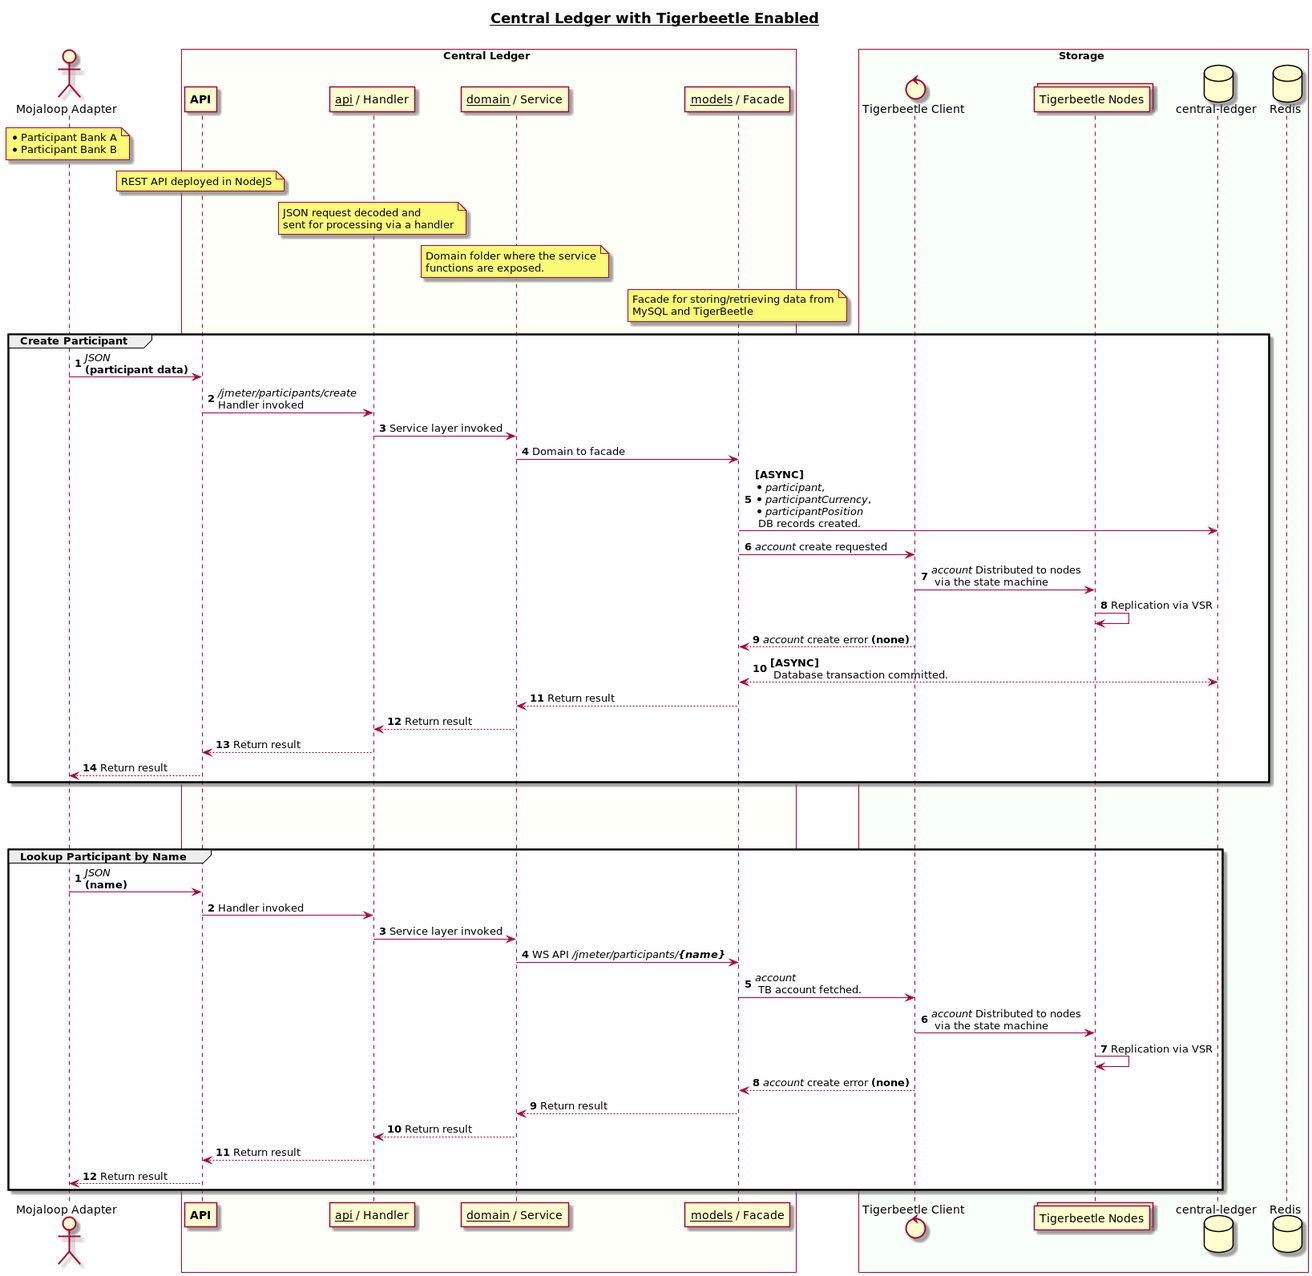
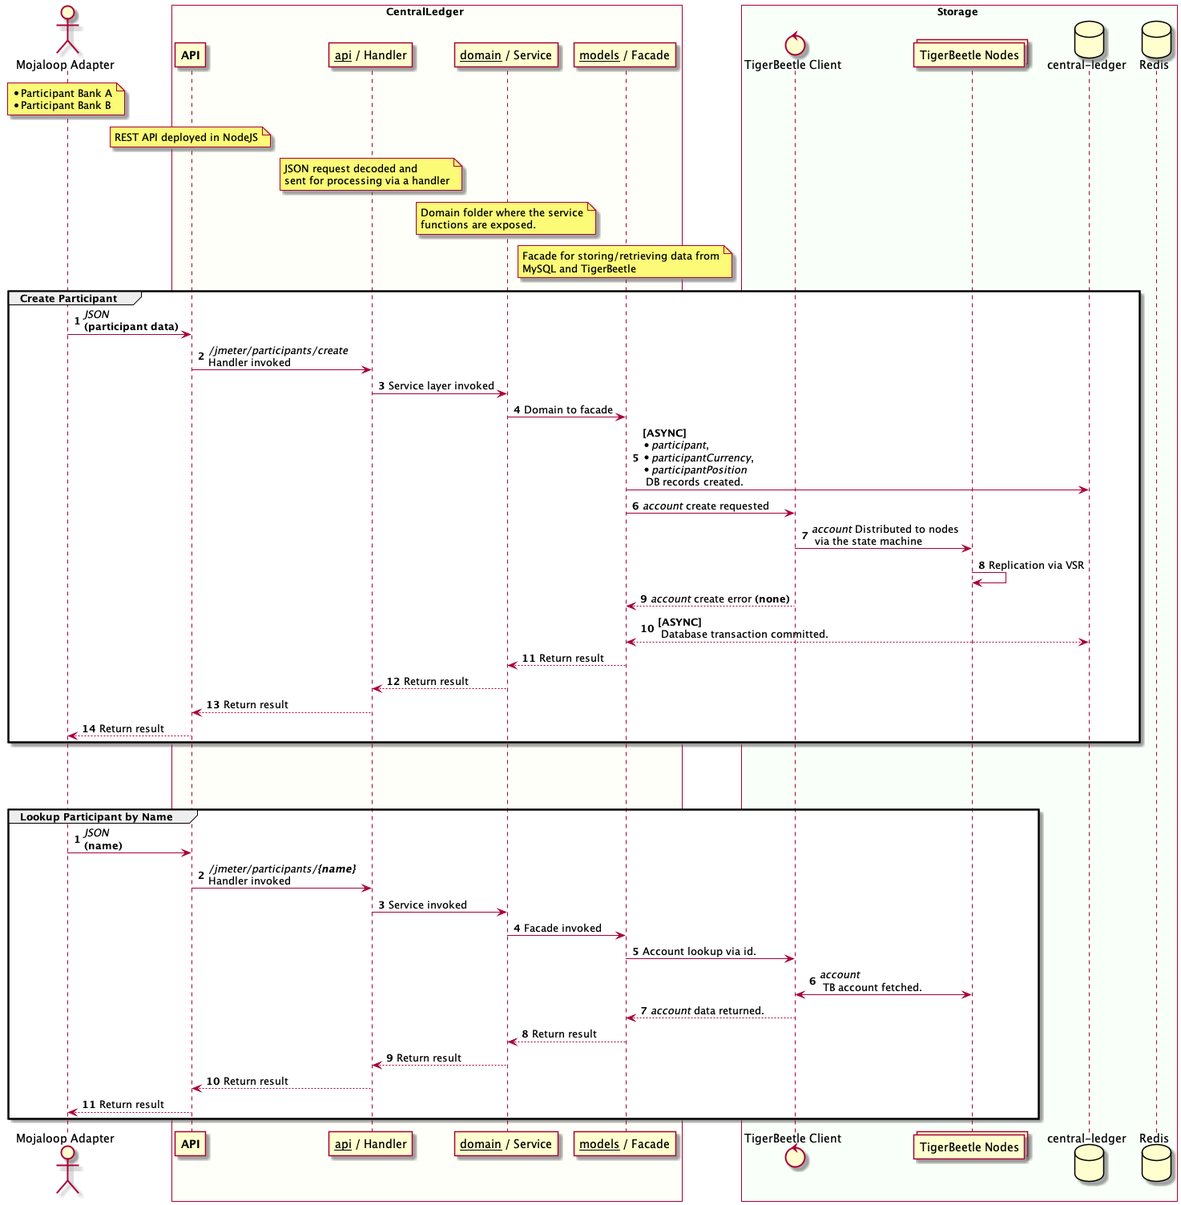
Updated design.

diff --git a/SOLUTION_DESIGN.md b/SOLUTION_DESIGN.md
@@ -31,13 +31,17 @@
 | Endpoint    | An API is a set of protocols and tools to facilitate interaction between two applications. An endpoint is a place on the API where the exchange happens. Endpoints are URIs (Uniform Resource Indices) on an API that an application can access. All APIs have endpoints. |
 | JSON        | JSON (JavaScript Object Notation) is a lightweight data-interchange format.                                                                                                                                                                                               |
 | REST        | Representational state transfer (REST) is a software architectural style that was created to guide the design and development of the architecture for the World Wide Web.                                                                                                 |
+| VPN Tunnel  | A VPN tunnel is an encrypted link between your computer or mobile device and an outside network. A VPN tunnel — short for virtual private network tunnel — can provide a way to cloak some of your online activity.                                                       |
+| TLS/SSL     | Transport Layer Security (TLS) certificates—most commonly known as SSL, or digital certificates—are the foundation of a safe and secure internet. TLS/SSL certificates secure internet connections by encrypting data sent between systems.                               |
+| HTTPS       | Stands for "HyperText Transport Protocol Secure." HTTPS is the same thing as HTTP, but uses a secure socket layer (SSL) for security purposes.                                                                                                                            |
+| WAF         | A WAF or web application firewall helps protect web applications by filtering and monitoring HTTP traffic between a web application and the Internet (_or internal network_).                                                                                             |
 
 
 ## 1. Purpose
 This document describes the solution architecture and system design for using a TigerBeetle database as part of a Mojaloop payments system.
 
 Different sections of this document can be used by an audience that is focussed on:
-* the requirements and business drivers of the the solution and
+* the requirements and business drivers of the solution and
 * the technical aspects and components of the design.
 
 ## 2. Background
@@ -46,82 +50,101 @@ A solution that uses TigerBeetle differs from the original design. The key reaso
 
 ## 3. Solution Design
 ### 3.1. Overview of Mojaloop Architecture
-//TODO @jason We need a diagram with a full view of all
+> TODO @jason We need a diagram with a full view of all
+
 ![System Context Diagram](solution_design/arch-mojaloop.svg)
 
 ### 3.2. System Context Diagram Central Ledger As Is
-//TODO @jason Add the central-settlement as part of the design diagrams...
+> @jason Add the central-settlement as part of the design diagrams...
+
 ![System Context Diagram As](solution_design/central-ledger-system-context.svg)
 
 ### 3.3. System Context Diagram Central Ledger with TigerBeetle
 ![System Context Diagram](solution_design/central-ledger-system-context.svg)
 
 ### 3.4. Functional Requirements
-#### New functionality
-
+#### New Functionality
 * TigerBeetle NodeJS integrated into Central-Ledger
   * Make use of existing configuration `default.json` configuration file for client
   * TigerBeetle NodeJS client to be integrated into central-ledger
   * TigerBeetle enablement through on/off switch
   * TigerBeetle and central-ledger facade (Translate from CL Acc+Transfer to TB Acc+Transfer)
-  * 
 * jMeter endpoints added for full 
 * Timeout function to be reliant on TB instead of timer
 * Transfer duplicate check performed as part of TB built in functionality
-* jMeter testing suite to test:
+* jMeter testing suite to test the following functionality:
   * Transfer
-  * 2-phase Transfer
-  * Account creation (includes Participant)
+  * 2-Phase Transfer
+  * Account & Participant Creation
   * Account Lookups
   * Transfer Lookups
-* 
 
-#### Impact on user experience
-#### System behaviour in different scenarios
+#### Impact On User Experience
+#### System Behaviour In different scenarios
 #### Impact on customer support or operations
 
 ### 3.5. Non-functional Requirements
-#### Performance
-* High increased performance
-* Increased deterministic behaviour
-* Environment stack testing
-* Update docker-compose and Docker files to include freestanding TB environment
+#### Performance In TigerBeetle
+Making use of TigerBeetle in CentralLedger would mean a significant increase in performance and throughput.
+TigerBeetle provides more performance than a general-purpose relational database such as MySQL or an in-memory database such as Redis:
 
-#### Availability
+* TigerBeetle **uses small, simple fixed-size data structures** (accounts and transfers) and a tightly scoped domain.
+* TigerBeetle **performs all balance tracking logic in the database**. This is a paradigm shift where we move the code once to the data, not the data back and forth to the code in the critical path. This eliminates the need for complex caching logic outside the database. The “Accounting” business logic is built in to TigerBeetle so that you can **keep your application layer simple, and completely stateless**.
+* TigerBeetle **supports batching by design**. You can batch all the transfer prepares or commits that you receive in a fixed 10ms window (or in a dynamic 1ms through 10ms window according to load) and then send them all in a single network request to the database. This enables low-overhead networking, large sequential disk write patterns and amortized fsync and consensus across hundreds and thousands of transfers.
+> Everything is a batch. It's your choice whether a batch contains 100 transfers or 10,000 transfers but our measurements show that **latency is _less_ where batch sizes are larger, thanks to Little's Law** (e.g. 50ms for a batch of a hundred transfers vs 20ms for a batch of ten thousand transfers). TigerBeetle is able to amortize the cost of I/O to achieve lower latency, even for fairly large batch sizes, by eliminating the cost of queueing delay incurred by small batches.
 
-#### Security
-The following security points need to be noted:
+* If your system is not under load, TigerBeetle also **optimizes the latency of small batches**. After copying from the kernel's TCP receive buffer (TigerBeetle does not do user-space TCP), TigerBeetle **does zero-copy Direct I/O** from network protocol to disk, and then to state machine and back, to reduce memory pressure and L1-L3 cache pollution.
+* TigerBeetle **uses io_uring for zero-syscall networking and storage I/O**. The cost of a syscall in terms of context switches adds up quickly for a few thousand transfers.
+* TigerBeetle **does zero-deserialization** by using fixed-size data structures, that are optimized for cache line alignment to **minimize L1-L3 cache misses**.
+* TigerBeetle **takes advantage of Heidi Howard's Flexible Quorums** to reduce the cost of **synchronous replication to one (or two) remote replicas at most** (in addition to the leader) with **asynchronous replication** between the remaining followers. This improves write availability, without sacrificing strict serializability or durability. This also reduces server deployment cost by as much as 20% because a 4-node cluster with Flexible Quorums can now provide the same `f=2` guarantee for the replication quorum as a 5-node cluster.
+> ["The major availability breakdowns and performance anomalies we see in cloud environments tend to be caused by subtle underlying faults, i.e. gray failure (slowly failing hardware) rather than fail-stop failure."](https://www.microsoft.com/en-us/research/wp-content/uploads/2017/06/paper-1.pdf)
+* TigerBeetle **routes around transient gray failure latency spikes**. 
+  * For example, if a disk write that typically takes 4ms starts taking 4 seconds because the disk is slowly failing, TigerBeetle will use cluster redundancy to mask the gray failure automatically without the user seeing any 4 second latency spike. This is a relatively new performance technique in the literature known as "tail tolerance".
 
-##### Transport
-* HTTPS on central-ledger endpoints
+#### Safety in TigerBeetle
+TigerBeetle is designed to a higher safety standard than a general-purpose relational database such as MySQL or an in-memory database such as Redis:
+Strict consistency, CRCs and crash safety are not enough.
 
-##### Storage
-* TigerBeetle stores all cold data encrypted under XXXX (TODO @jason complete.)
+* TigerBeetle **detects and repairs disk corruption** ([3.45% per 32 months, per disk](https://research.cs.wisc.edu/wind/Publications/latent-sigmetrics07.pdf)), **detects and repairs misdirected writes** where the disk firmware writes to the wrong sector ([0.042% per 17 months, per disk](https://research.cs.wisc.edu/wind/Publications/latent-sigmetrics07.pdf)), and **prevents data tampering** with hash-chained cryptographic checksums.
+* TigerBeetle **uses Direct I/O by design** to side step cache coherency bugs in the kernel page cache after an EIO fsync error.
+* TigerBeetle **exceeds the fsync durability of a single disk** and the hardware of a single server because disk firmware can contain bugs and because single server systems fail.
+* TigerBeetle **provides strict serializability**, the gold standard of consistency, as a replicated state machine, and as a cluster of TigerBeetle servers (called replicas), for optimal high availability and distributed fault-tolerance.
+* TigerBeetle **performs synchronous replication** to a quorum of TigerBeetle servers using the pioneering [Viewstamped Replication](http://pmg.csail.mit.edu/papers/vr-revisited.pdf) and consensus protocol, for low-latency automated leader election and to eliminate the risk of split brain associated with manual failover.
+* TigerBeetle is “fault-aware” and **recovers from local storage failures in the context of the global consensus protocol**, providing [more safety than replicated state machines such as ZooKeeper and LogCabin](https://www.youtube.com/watch?v=fDY6Wi0GcPs). For example, TigerBeetle can disentangle corruption in the middle of the committed journal (caused by bitrot) from torn writes at the end of the journal (caused by power failure) to uphold durability guarantees given for committed data and maximize availability.
+* TigerBeetle does not depend on synchronized system clocks, does not use leader leases, and **performs leader-based timestamping** so that your application can deal only with safe relative quantities of time with respect to transfer timeouts. To ensure that the leader's clock is within safe bounds of "true time", TigerBeetle combines all the clocks in the cluster to create a fault-tolerant clock that we call ["cluster time"](https://www.tigerbeetle.com/post/three-clocks-are-better-than-one).
+
+##### Secure Transport
+* HTTPS on central-ledger endpoints may be configured in NodeJS or WAF/Load-Balancer
+* Communication between CentralLedger and TigerBeetle will make use of a secure VPN tunnel
+* Non PCI-DSS sensitive information stored in TigerBeetle
+
+##### Secure Storage at Rest
+* TigerBeetle stores all data at rest encrypted under XXXX (TODO @jason complete.)
+* MySQL database for CentralLedger to be configured for:
+  * TLS/SSL communication between CentralLedger and MySQL
+  * MysQL Keyring plugin may be used to encrypt data at rest (https://aimlessengineer.com/2021/04/26/data-at-rest-encryption-in-mysql/)
 * Security of sensitive data in the database
 
 ##### Other
-* Connection security between CL and TB
 * Authentication of the CL API
-
-#### Safety (or maybe resiliency, durability)
-
+* Update CentralLedger documentation during the course of the project
 
 #### Testing
-Test coverage will include:
-* Unit testing for Tigerbeetle NodeJS client
-* Integration testing for Tigerbeetle NodeJS client
-* Integration testing for CL and TB
-  * TB on
-  * TB off
-  * CL off (traditional)
-* Performance/Throughput testing via jMeter
-* 
+Existing unit tests for CentralLedger will be updated to test TigerBeetle and CentralLedger integration. 
+jUnit will be used to test performance and safety.
 
-@jason TODO
+Coverage will include:
+* Unit testing for TigerBeetle NodeJS client
+* Integration testing for TigerBeetle NodeJS client
+* Integration testing for CentralLedger and TigerBeetle
+  * TB enabled
+  * TB disabled (_traditional_)
+* Performance, throughput and safety (_via jMeter_)
 
 ### 3.6. Assumptions, Dependencies & Considerations
 
 #### 3.6.1 Assumptions
+> TODO @jason
 
 #### 3.6.2 Hardware Dependencies
 The following hardware dependencies are know.
@@ -131,11 +154,24 @@ The following hardware dependencies are know.
 #### 3.6.3 Software Dependencies
 The following software dependencies are know.
 ##### TigerBeetle
-##### CentralLedger
+TigerBeetle release in a single executable file which is supported in the following operating systems:
+* Linux
+* MacOS
+* Windows
+
+##### Mojaloop
+The Mojaloop stack relies on the following software components:
+* MySQL
+* MongoDB
+* Redis
+* Kafka
+* NodeJS
 
 #### 3.6.4 Considerations
+> TODO @jason
 
 ### 3.7. Scope Exclusions
+> TODO @jason
 
 ## 4. Detailed Design
 
@@ -154,12 +190,20 @@ The following software dependencies are know.
 ```
 2. Handler invoked from `/jmeter/participants/create` `POST` endpoint.
 3. Service layer
+4. Domain to facade
+5. 
 
 #### 4.1.2 Lookup Participant by Name
+1. HTTP request
+2. Handler invoked from `/jmeter/participants/{name}` `GET` endpoint.
+3. Service layer
+4. Domain to facade
 
 
 ### 4.2. Transfers
 ![Transfer Sequence](solution_design/sequence-transfer-tb-enabled.png)
+
+#### 4.2.1 Create Transfer (2-Phase)
 1. Transfer JSON Payload
 ```json
 {
@@ -178,6 +222,38 @@ The following software dependencies are know.
 ```
 2. Handler invoked from `/jmeter/transfers/prepare` `POST` endpoint.
 3. Service layer
+4. Facade
+5. The following validations are performed prior to the transfer:
+   1. `validateFspiopSourceMatchesPayer` -> Asserts headers['fspiop-source'] matches payload.payerFsp
+   2. `validateParticipantByName` -> Asserts payer participant exists by doing a lookup by name (discards result of lookup work)
+   3. `validatePositionAccountByNameAndCurrency` -> Asserts account exists for name-currency tuple (discards result of lookup work)
+   4. `validateParticipantByName` -> Asserts payee participant exists by doing a lookup by name (discards result of lookup work)
+   5. `validatePositionAccountByNameAndCurrency` -> Asserts account exists for name-currency tuple (discards result of lookup work)
+   6. `validateAmount` -> Validates allowed scale of decimal places and allowed precision
+   7. `validateConditionAndExpiration` -> Validates condition and expiration
+   8. `validateDifferentDfsp` -> Asserts lowercase string comparison of `payload.payerFsp` and `payload.payeeFsp` is different
+6. Lookup Payer and Payee Participants via name, account type (_POSITION_) and currency
+7. TB pending
+8. Transfer distributed via the TigerBeetle state machine
+9. The transfer is distributed to 7 TigerBeetle nodes in the cluster
+10. The TigerBeetle API responds with errors during the transfer, which is empty (_no errors_)
+11. Return result to service layer
+12. Return result to the handler layer
+13. Prepare the result in JSON format
+14. Result is returned to the DSFP via the REST API
+15. Insert into the following database tables:
+    1. `transferDuplicateCheck`
+    2. `transfer`
+    3. `transferParticipant` (Payer)
+    4. `transferParticipant` (Payee)
+    5. `ilpPacket`
+    6. `transferStateChange`
+    7. `participantPosition`
+    8. `participantPositionChange`
+16. sd
+
+#### 4.2.2 Lookup Transfer by ID
+> TODO @jason
 
 ### 4.3. Settlement
 
@@ -196,10 +272,10 @@ Mutable data set for account related data.
 | unit             | `u16`             | A transfer unit describing the currency associated with the account.                                                             |
 | code             | `u16`             | A chart of accounts code describing the type of account (e.g. clearing, settlement)                                              |
 | flags            | `AccountFlags`    | See account flags.                                                                                                               |
-| debits_reserved  | `u64`             | Balance for reserved debits.                                                                                                     |
-| debits_accepted  | `u64`             | Balance for accepted debits.                                                                                                     |
-| credits_reserved | `u64`             | Balance for reserved credits.                                                                                                    |
-| credits_accepted | `u64`             | Balance for accepted credits.                                                                                                    |
+| debits_pending   | `u64`             | Balance for reserved debits.                                                                                                     |
+| debits_posted    | `u64`             | Balance for accepted debits.                                                                                                     |
+| credits_pending  | `u64`             | Balance for reserved credits.                                                                                                    |
+| credits_posted   | `u64`             | Balance for accepted credits.                                                                                                    |
 | timestamp        | `u64`             | The current state machine timestamp of the account for state tracking.                                                           |
 
 #### 5.5.2 AccountFlags - `[packed struct]`
@@ -236,32 +312,16 @@ Transfers for TB are immutable.
 | condition                        | `bool`            | Does the transfer support transfer conditions. |
 | padding                          | `u29`             | Data to be used for padding.                   |
 
-#### 5.5.5 Commit
-> TODO @jason needs to be updated due to Transfer/Commit PR. 
-
-Commits for TB are immutable. A commit can only be performed on a transfer.
-
-| Field             | Type              | Description                                                                              |
-|-------------------|-------------------|------------------------------------------------------------------------------------------|
-| id                | `u128`            | Global unique id for a transfer.                                                         |
-| reserved          | `[32]u8 - array`  | Accounting policy primitives. Not available.                                             |
-| code              | `u32`             | A chart of accounts code describing the reason for the commit (e.g. deposit, settlement) |
-| flags             | `CommitFlags`     | See commit flags.                                                                        |
-| timestamp         | `u64`             | The current state machine timestamp of the commit for state tracking.                    |
-
-#### 5.5.6 CommitFlags - `[packed struct]`
-| Field                            | Type              | Description                                                                                                  |
-|----------------------------------|-------------------|--------------------------------------------------------------------------------------------------------------|
-| linked                           | `bool`            | Is the account linked to another account.                                                                    |
-| reject                           | `bool`            | Has the commit been rejected.                                                                                |
-| preimage                         | `bool`            | Flag to indicate whether the commit relies on the associated transfer being flagged as a condition transfer. |
-| padding                          | `u29`             | Data to be used for padding.                                                                                 |
-
-
 ### 5.2 CentralLedger
 
 #### 5.2.1 Relationships
-![SQL Relationships](solution_design/central-ledger-data-relationships.png)
+
+##### Participants and Accounts
+![SQL Relationships - Participants](solution_design/central-ledger-data-participant.png)
+
+##### Transfer
+![SQL Relationships - Transfers](solution_design/central-ledger-data-transfer.png)
+
 
 #### 5.2.2 Participant (`participant`)
 | Field         | Type           | Description                    |
@@ -285,9 +345,68 @@ Commits for TB are immutable. A commit can only be performed on a transfer.
 
 #### 5.2.4 Account
 
-#### 5.2.5 Transfer
+#### 5.2.5 Transfer (`transfer`)
+| Field          | Type   | Description                    |
+|----------------|--------|--------------------------------|
+| transferId     | `TODO` | Unique participant identifier. |
+| amount         | `TODO` | TODO.                          |
+| currencyId     | `TODO` | TODO.                          |
+| expirationDate | `TODO` | TODO.                          |
+| ilpCondition   | `TODO` | TODO.                          |
 
-#### 5.2.6 Transfer Fulfil
+#### 5.2.6 Transfer Participant (`transferParticipant`)
+| Field                         | Type   | Description                    |
+|-------------------------------|--------|--------------------------------|
+| transferParticipantId         | `TODO` | Unique participant identifier. |
+| transferId                    | `TODO` | Unique participant identifier. |
+| amount                        | `TODO` | TODO.                          |
+| ledgerEntryTypeId             | `TODO` | TODO.                          |
+| participantCurrencyId         | `TODO` | TODO.                          |
+| transferParticipantRoleTypeId | `TODO` | TODO.                          |
+
+#### 5.2.7 ILP Packet (`ilpPacket`)
+| Field      | Type   | Description                    |
+|------------|--------|--------------------------------|
+| transferId | `TODO` | Unique participant identifier. |
+| value      | `TODO` | Unique participant identifier. |
+
+#### 5.2.8 Transfer State Change (`transferStateChange`)
+| Field           | Type   | Description                    |
+|-----------------|--------|--------------------------------|
+| transferStateId | `TODO` | Unique participant identifier. |
+| transferId      | `TODO` | Unique participant identifier. |
+| createdDate     | `TODO` | Unique participant identifier. |
+| reason          | `TODO` | Unique participant identifier. |
+
+#### 5.2.9 Participant Position (`participantPosition`)
+| Field                  | Type   | Description                    |
+|------------------------|--------|--------------------------------|
+| participantPositionId  | `TODO` | Unique participant identifier. |
+| value                  | `TODO` | Unique participant identifier. |
+| changedDate            | `TODO` | Unique participant identifier. |
+
+#### 5.2.10 Participant Position Change (`participantPositionChange`)
+| Field                 | Type   | Description                    |
+|-----------------------|--------|--------------------------------|
+| participantPositionId | `TODO` | Unique participant identifier. |
+| transferStateChangeId | `TODO` | Unique participant identifier. |
+| value                 | `TODO` | Unique participant identifier. |
+| reservedValue         | `TODO` | Unique participant identifier. |
+| createdDate           | `TODO` | Unique participant identifier. |
+
+#### 5.2.11 Participant Limit (`participantLimit`)
+| Field              | Type   | Description                    |
+|--------------------|--------|--------------------------------|
+| participantLimitId | `TODO` | Unique participant identifier. |
+| value              | `TODO` | Unique participant identifier. |
+
+#### 5.2.12 Transfer Duplicate Check (`transferDuplicateCheck`)
+| Field      | Type   | Description                    |
+|------------|--------|--------------------------------|
+| transferId | `TODO` | Unique participant identifier. |
+| hash       | `TODO` | Unique participant identifier. |
+
+#### 5.2.X Transfer Fulfil
 
 
 
